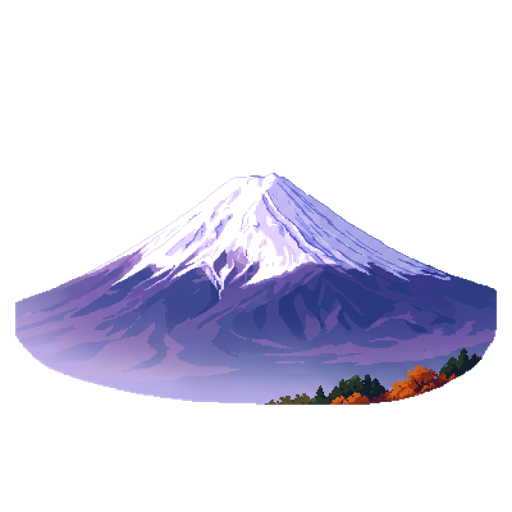
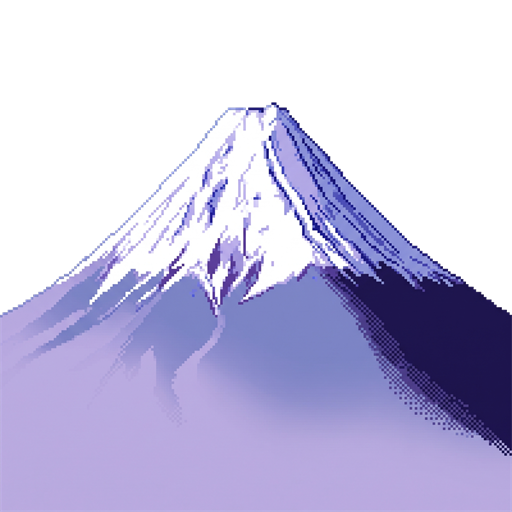
feat(scenic): deploy towering Mount Fuji with summit soaring above mountains and 100% solid opacity

diff --git a/src/components/ScenicJourneyModal.tsx b/src/components/ScenicJourneyModal.tsx
@@ -626,19 +626,16 @@ export const ScenicJourneyModal: React.FC<ScenicJourneyModalProps> = ({
         const fujiBaseY = height * 0.68;
 
         if (assets.bgFuji) {
-          // Dedicated high-res pixel art Mount Fuji (Centered and tapered slopes)
-          // Bounds: minY=172 (peak), maxY=405 (base), total height 233 in 512px space
-          const fujiDrawW = 420;
-          const fujiDrawH = 420;
+          // Dedicated tall & towering pixel art Mount Fuji
+          // Bounds: minY=102 (high summit), maxY=511 (base), height=409px
+          const fujiDrawW = 460;
+          const fujiDrawH = 460;
           const fujiDrawX = fujiX - fujiDrawW / 2;
-          // Base at maxY=405/512 rests grounded comfortably behind rolling hills
-          const fujiDrawY = fujiBaseY - fujiDrawH * (405 / 512) + 20;
+          // Positioned so the summit towers dramatically high into the sky above distant mountains
+          const fujiDrawY = fujiBaseY - fujiDrawH * 0.92;
 
           ctx.save();
-          // Keep 100% opaque so no ghosting occurs, but apply subtle dark night tint if night theme
-          if (theme === 'night') {
-            ctx.globalAlpha = 0.95;
-          }
+          // Keep 100% solid opacity so no ghosting occurs behind mountains
           ctx.drawImage(assets.bgFuji, fujiDrawX, fujiDrawY, fujiDrawW, fujiDrawH);
           ctx.restore();
         } else {
